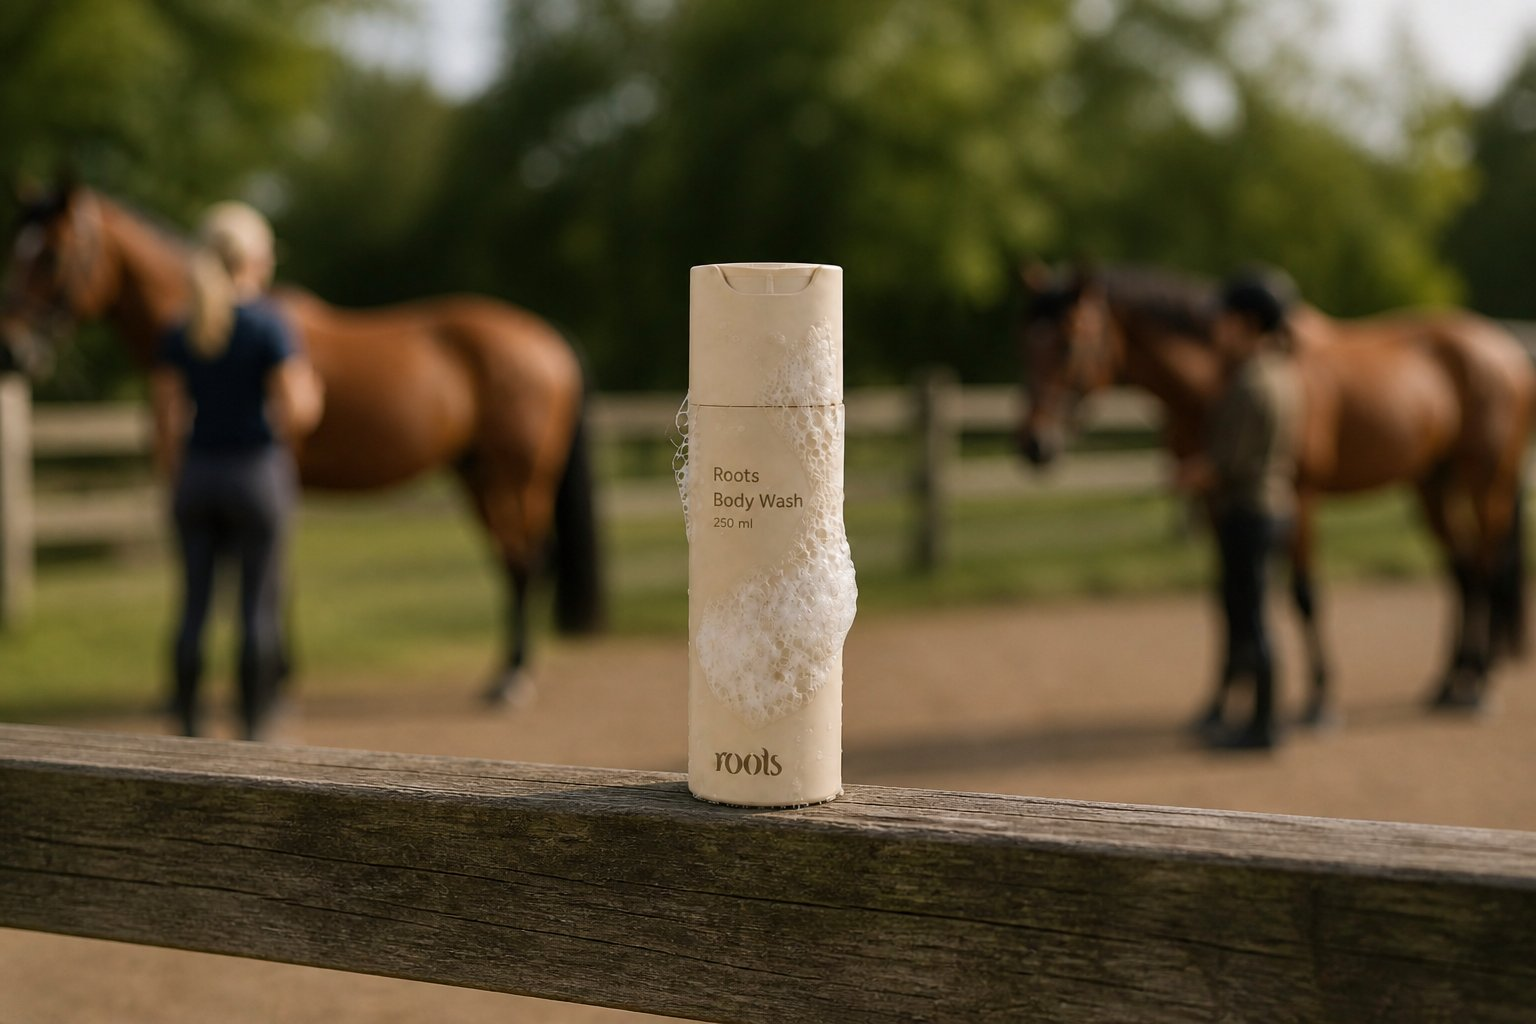
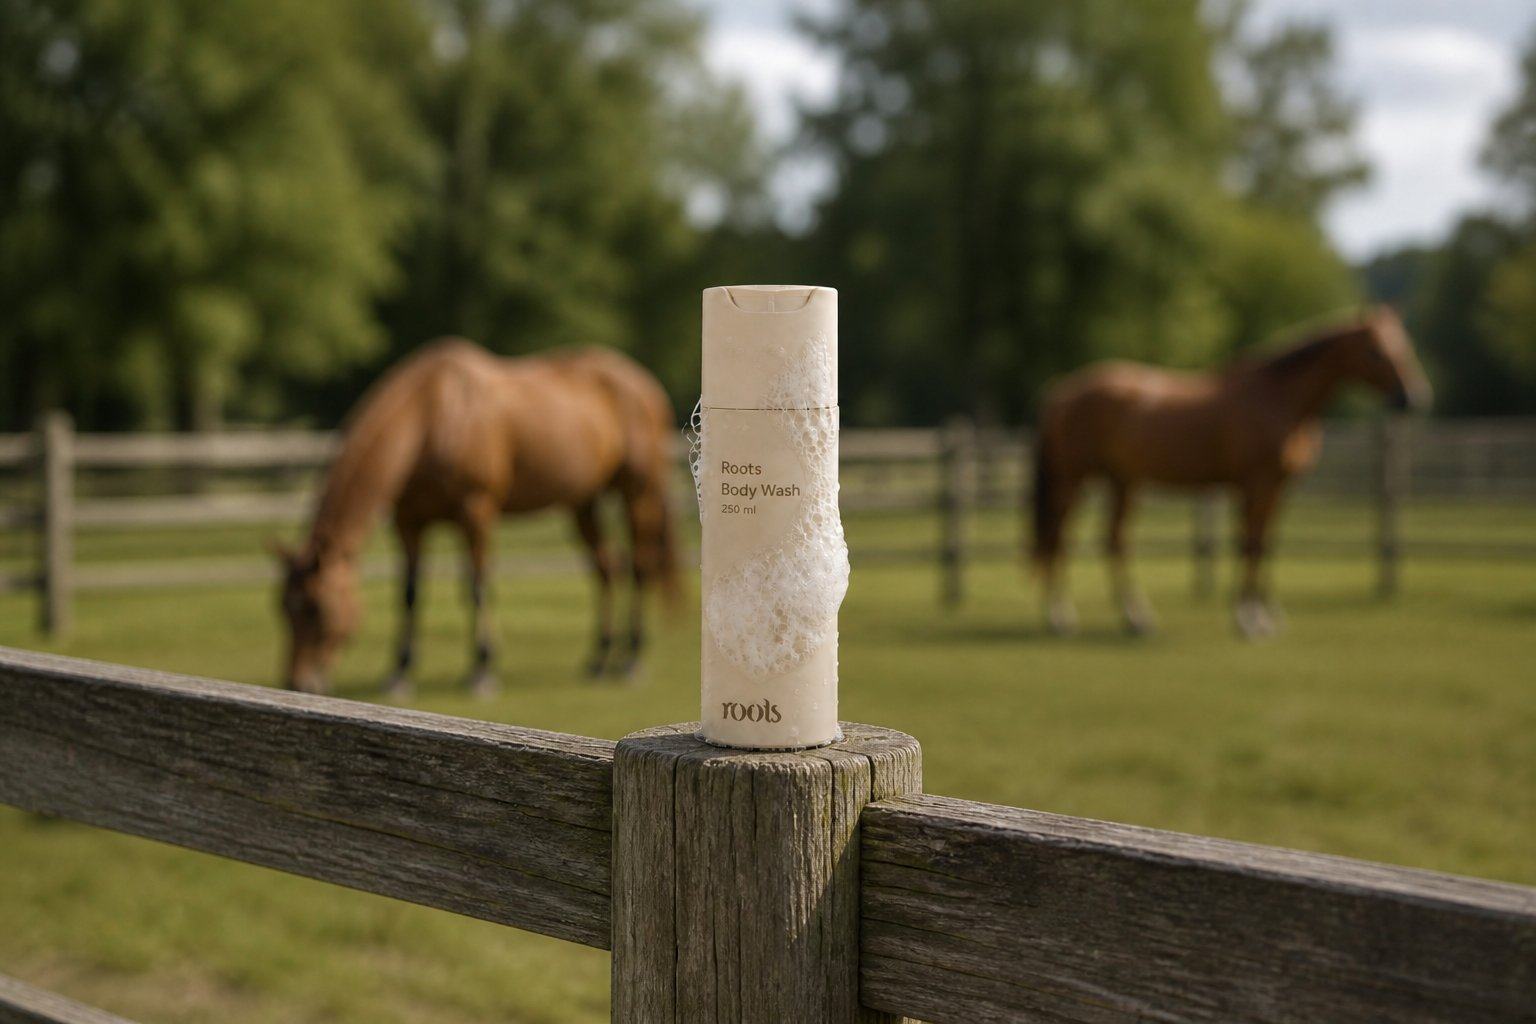
Minska flaskskalan i presentationsproduktbilderna.
Hela flaskan syns med mer miljö runt, så produktkorten inte bara visar lock.

diff --git a/docs/presentations/decks.py b/docs/presentations/decks.py
@@ -105,7 +105,7 @@ def build_d1() -> Deck:
     slides.append(Slide(
         number=next(n), layout="cover", kicker="COMMERCIAL PLAYBOOK",
         title=S["MS-001"].text("Titel"), subtitle=S["MS-001"].text("Undertitel"),
-        images=["images/sport-m3.jpg"], source="MS-001",
+        images=["images/sport-pres-cover.jpg"], source="MS-001",
         notes=notes_for("MS-001"),
     ))
 
@@ -172,8 +172,8 @@ def build_d1() -> Deck:
         next(n), "products", "MS-008",
         items=[f"{name} | {benefits[i] if i < len(benefits) else ''}"
                for i, name in enumerate(products)],
-        images=["images/sport-schampoo.jpg", "images/sport-conditioner.jpg",
-                "images/sport-body-wash.jpg"],
+        images=["images/sport-pres-schampoo.jpg", "images/sport-pres-conditioner.jpg",
+                "images/sport-pres-body-wash.jpg"],
         caption=S["MS-008"].under("Slide-innehåll", "Nederst")[0],
     ))
 
@@ -790,8 +790,8 @@ def build_d3() -> Deck:
         next(n), "products", "MS-008",
         items=[f"{name} | {benefits[i] if i < len(benefits) else ''}"
                for i, name in enumerate(products)],
-        images=["images/sport-schampoo.jpg", "images/sport-conditioner.jpg",
-                "images/sport-body-wash.jpg"],
+        images=["images/sport-pres-schampoo.jpg", "images/sport-pres-conditioner.jpg",
+                "images/sport-pres-body-wash.jpg"],
         caption=S["MS-008"].under("Slide-innehåll", "Nederst")[0],
     ))
 
